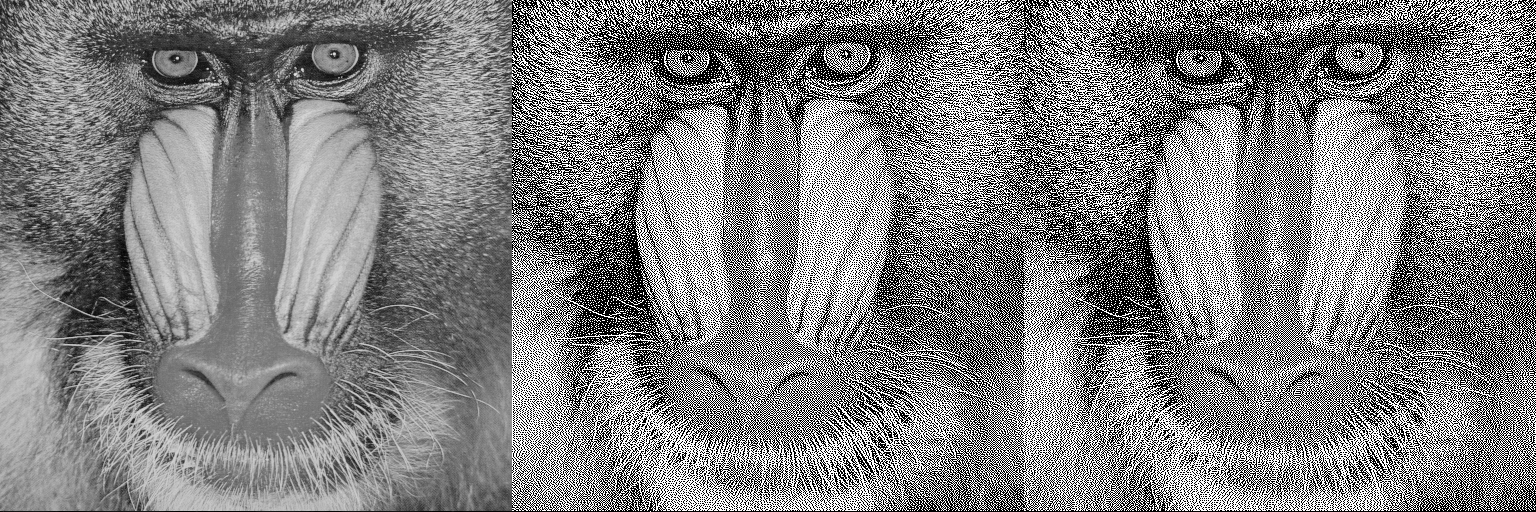
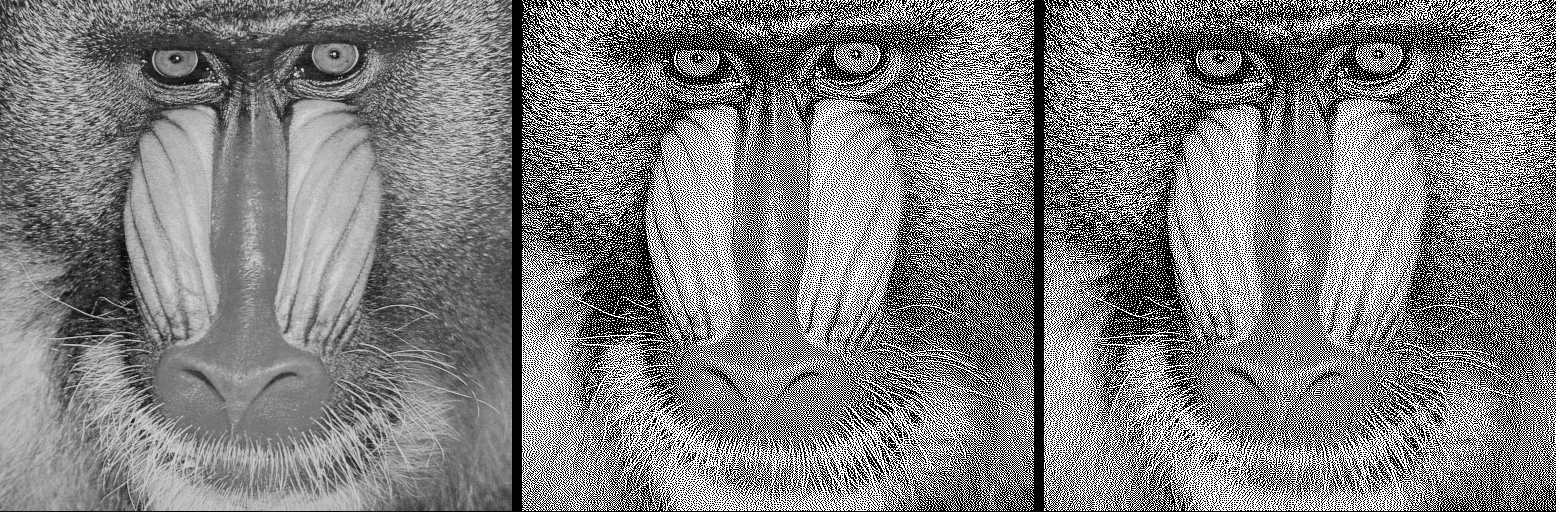
Imagens testando

diff --git a/utils.py b/utils.py
@@ -1,5 +1,7 @@
 import os
 import numpy as np
+from PIL import Image, ImageDraw, ImageFont
+import matplotlib.pyplot as plt
 from PIL import Image
 
 def create_output_folder(folder_name="output"):
@@ -32,8 +34,27 @@ def salvar_imagem_concatenada(imagens, diretorio, nome_arquivo, modo="L"):
     # Garante que o diretório exista
     os.makedirs(diretorio, exist_ok=True)
 
-    # Concatena as imagens horizontalmente
-    combinado = np.hstack(imagens)
+    # Define a distância entre as imagens (em pixels)
+    distancia = 10
+
+    # Adiciona a distância entre as imagens
+    altura_maxima = max(imagem.shape[0] for imagem in imagens)
+    largura_total = sum(imagem.shape[1] for imagem in imagens) + distancia * (len(imagens) - 1)
+
+    # Cria um array vazio com a altura máxima e largura total
+    # Cria um array vazio com a altura máxima e largura total
+    if modo == "RGB":
+        combinado = np.zeros((altura_maxima, largura_total, 3), dtype=imagens[0].dtype)
+    else:
+        combinado = np.zeros((altura_maxima, largura_total), dtype=imagens[0].dtype)
+
+
+    # Preenche o array com as imagens e a distância entre elas
+    x_offset = 0
+    for imagem in imagens:
+        altura, largura = imagem.shape[:2]
+        combinado[:altura, x_offset:x_offset + largura] = imagem
+        x_offset += largura + distancia
 
     # Converte para uint8
     combinado = combinado.astype(np.uint8)
@@ -48,3 +69,107 @@ def salvar_imagem_concatenada(imagens, diretorio, nome_arquivo, modo="L"):
     caminho_completo = os.path.join(diretorio, nome_arquivo)
     img_pil.save(caminho_completo)
     print(f"Imagem salva: {caminho_completo}")
+
+def mostrar_imagem_concatenada(imagens, modo="L"):
+    """
+    Concatena horizontalmente uma lista de imagens e exibe o resultado em uma janela.
+
+    Args:
+        imagens (list): Lista de arrays numpy representando as imagens.
+        modo (str): Modo da imagem ("L" para grayscale ou "RGB" para colorido).
+    """
+    # Define a distância entre as imagens (em pixels)
+    distancia = 10
+
+    # Adiciona a distância entre as imagens
+    altura_maxima = max(imagem.shape[0] for imagem in imagens)
+    largura_total = sum(imagem.shape[1] for imagem in imagens) + distancia * (len(imagens) - 1)
+
+    # Cria um array vazio com a altura máxima e largura total, preenchido com branco
+    if modo == "RGB":
+        combinado = np.ones((altura_maxima, largura_total, 3), dtype=np.uint8) * 255  # Branco para RGB
+    else:
+        combinado = np.ones((altura_maxima, largura_total), dtype=np.uint8) * 255  # Branco para grayscale
+
+    # Preenche o array com as imagens e a distância entre elas
+    x_offset = 0
+    for imagem in imagens:
+        altura, largura = imagem.shape[:2]
+        if modo == "RGB":
+            combinado[:altura, x_offset:x_offset + largura, :] = imagem
+        else:
+            combinado[:altura, x_offset:x_offset + largura] = imagem
+        x_offset += largura + distancia
+
+    # Converte para uint8
+    combinado = combinado.astype(np.uint8)
+
+    # Exibe a imagem concatenada
+    plt.figure(figsize=(10, 5))
+    if modo == "RGB":
+        plt.imshow(combinado)
+    else:  # Default para grayscale
+        plt.imshow(combinado, cmap="gray")
+    plt.axis("off")
+    plt.title("Imagens Concatenadas")
+    plt.show()
+
+def salvar_grid_imagens(imagens_nomes, diretorio, nome_arquivo, modo="L"):
+    """
+    Cria um grid com 3 colunas e quantas linhas forem necessárias e salva as imagens.
+
+    Args:
+        imagens_nomes (list): Lista de tuplas no formato (imagem, nome_do_metodo).
+        diretorio (str): Nome do diretório onde a imagem será salva.
+        nome_arquivo (str): Nome do arquivo de saída.
+        modo (str): Modo da imagem ("L" para grayscale ou "RGB" para colorido).
+    """
+    # Garante que o diretório exista
+    os.makedirs(diretorio, exist_ok=True)
+
+    # Configurações do grid
+    colunas = 3
+    largura_imagem = max(imagem.shape[1] for imagem, _ in imagens_nomes)
+    altura_imagem = max(imagem.shape[0] for imagem, _ in imagens_nomes)
+    linhas = (len(imagens_nomes) + colunas - 1) // colunas  # Calcula o número de linhas necessárias
+
+    # Altura extra para a legenda
+    altura_legenda = 30
+
+    # Cria o canvas para o grid
+    largura_total = colunas * largura_imagem
+    altura_total = linhas * (altura_imagem + altura_legenda)
+    if modo == "RGB":
+        grid = np.ones((altura_total, largura_total, 3), dtype=np.uint8) * 255  # Branco para RGB
+    else:
+        grid = np.ones((altura_total, largura_total), dtype=np.uint8) * 255  # Branco para grayscale
+
+    # Preenche o grid com as imagens e as legendas
+    for idx, (imagem, nome_metodo) in enumerate(imagens_nomes):
+        linha = idx // colunas
+        coluna = idx % colunas
+        x_offset = coluna * largura_imagem
+        y_offset = linha * (altura_imagem + altura_legenda)
+
+        # Adiciona a imagem ao grid
+        if modo == "RGB" and len(imagem.shape) == 2:  # Converte grayscale para RGB
+            imagem = np.stack([imagem] * 3, axis=-1)
+        elif modo == "L" and len(imagem.shape) == 3:  # Converte RGB para grayscale
+            imagem = np.mean(imagem, axis=-1).astype(np.uint8)
+
+        grid[y_offset:y_offset + altura_imagem, x_offset:x_offset + largura_imagem] = imagem
+
+        # Adiciona a legenda
+        img_pil = Image.fromarray(grid)
+        draw = ImageDraw.Draw(img_pil)
+        font = ImageFont.load_default()  # Usa a fonte padrão
+        text_x = x_offset + largura_imagem // 2 - len(nome_metodo) * 3  # Centraliza o texto
+        text_y = y_offset + altura_imagem + 5
+        draw.text((text_x, text_y), nome_metodo, fill=(0 if modo == "L" else (0, 0, 0)), font=font)
+        grid = np.array(img_pil)
+
+    # Salva o grid como imagem
+    img_pil = Image.fromarray(grid, mode="RGB" if modo == "RGB" else "L")
+    caminho_completo = os.path.join(diretorio, nome_arquivo)
+    img_pil.save(caminho_completo)
+    print(f"Grid de imagens salvo: {caminho_completo}")

diff --git a/q1.py b/q1.py
@@ -2,54 +2,74 @@ import numpy as np
 from PIL import Image
 import matplotlib.pyplot as plt
 from mascaras1 import MASCARAS
-from utils import create_output_folder, salvar_imagem_concatenada
+from utils import create_output_folder, salvar_imagem_concatenada, mostrar_imagem_concatenada, salvar_grid_imagens
 
 def dithering_difusao_erro(img, mascara, serpentina=False):
     altura, largura = img.shape
 
     if serpentina:
         sentido_normal = True
-        # precisamos de uma mascara com dy invertido, ou seja mascara(dx, dy, peso) -> mascara(dx, -dy, peso), pois estamos percorrendo no outro sentido
-        mascara_flipped = np.copy(mascara)
-        mascara_flipped[:, 1] *= -1
         for x in range(altura):
             if sentido_normal:
+                # Sentido normal (esquerda para direita)
                 for y in range(largura):
-                    apply_dithering(img, mascara, altura, largura, x, y)
+                    apply_dithering(img, mascara, altura, largura, x, y, direcao=1)
             else:
+                # Sentido inverso (direita para esquerda)
                 for y in range(largura - 1, -1, -1):
-                    apply_dithering(img, mascara_flipped, altura, largura, x, y)
+                    apply_dithering(img, mascara, altura, largura, x, y, direcao=-1)
             sentido_normal = not sentido_normal
     else:
         for x in range(altura):
             for y in range(largura):
-                apply_dithering(img, mascara, altura, largura, x, y)
+                apply_dithering(img, mascara, altura, largura, x, y, direcao=1)
 
     return img
 
-def apply_dithering(img, mascara, altura, largura, x, y):
+def apply_dithering(img, mascara, altura, largura, x, y, direcao=1):
     pixel = img[x, y]
-    if pixel < 128:
-        img[x, y] = 0
-    else:
-        img[x, y] = 255
-
-    erro = pixel - img[x, y]
+    novo_valor = 0 if pixel < 128 else 255
+    erro = pixel - novo_valor
+    img[x, y] = novo_valor
 
     for dx, dy, peso in mascara:
         x_novo = x + int(dx)
-        y_novo = y + int(dy)
+        y_novo = y + int(dy * direcao)  # Aqui multiplicamos dy pela direção
         if 0 <= x_novo < altura and 0 <= y_novo < largura:
             img[x_novo, y_novo] += erro * peso
 
+def dithering_difusao_erro_rgb(img_rgb, mascara, serpentina=False):
+    # Inicializa a imagem de saída com mesma forma
+    img_out = np.zeros_like(img_rgb)
+
+    # Aplica dithering em cada canal separadamente
+    for c in range(3):  # 0 = R, 1 = G, 2 = B
+        canal = img_rgb[:, :, c].copy()
+        canal_dither = dithering_difusao_erro(canal, mascara, serpentina)
+        img_out[:, :, c] = np.clip(canal_dither, 0, 255)
+
+    return img_out.astype(np.uint8)
+
 # --- Main ---
 imagem = np.array(Image.open("imgs/baboon_monocromatica.png").convert('L'), dtype=np.float32)
+imagem_rgb = np.array(Image.open("imgs/baboon_colorida.png").convert('RGB'), dtype=np.float32)
 create_output_folder("out1")
+
+# lista de imagens para o grid (dois grids: com e sem serpentina)
+# cada lista (list) é formada por tuplas (imagem, nome)
+imgs_serpentina = []
+imgs_sem_serpentina = []
+imgs_serpentina_rgb = []
+imgs_sem_serpentina_rgb = []
 
 # Para cada máscara, aplica e salva o resultado
 for nome, mascara in MASCARAS.items():
     serp_off = dithering_difusao_erro(imagem.copy(), mascara, serpentina=False)
     serp_on = dithering_difusao_erro(imagem.copy(), mascara, serpentina=True)
+
+    # Adiciona as imagens à lista de grid
+    imgs_sem_serpentina.append((serp_off, nome))
+    imgs_serpentina.append((serp_on, nome))
 
     # Concatena e salva usando a nova função
     salvar_imagem_concatenada(
@@ -59,3 +79,57 @@ for nome, mascara in MASCARAS.items():
         modo="L"
     )
 
+    # Exibe a imagem concatenada (basta descomentar para visualizar)
+    #mostrar_imagem_concatenada(
+    #    imagens=[imagem, serp_off, serp_on],
+    #    modo="L"
+    #)
+
+    # Para a imagem colorida
+    serp_off_rgb = dithering_difusao_erro_rgb(imagem_rgb.copy(), mascara, serpentina=False)
+    serp_on_rgb = dithering_difusao_erro_rgb(imagem_rgb.copy(), mascara, serpentina=True)
+    salvar_imagem_concatenada(
+        imagens=[imagem_rgb, serp_off_rgb, serp_on_rgb],
+        diretorio="out1",
+        nome_arquivo=f"{nome.replace(' ', '_')}_colorida.png",
+        modo="RGB"
+    )
+
+    # Adiciona as imagens coloridas à lista de grid
+    imgs_sem_serpentina_rgb.append((serp_off_rgb, nome))
+    imgs_serpentina_rgb.append((serp_on_rgb, nome))
+
+
+    # Exibe a imagem colorida concatenada (basta descomentar para visualizar)
+    #mostrar_imagem_concatenada(
+    #    imagens=[imagem_rgb, serp_off_rgb, serp_on_rgb],
+    #    modo="RGB"
+    #)
+
+salvar_grid_imagens(
+    imagens_nomes=imgs_sem_serpentina, 
+    diretorio="out1",
+    nome_arquivo="grid_sem_serpentina.png",
+    modo="L"
+)
+
+salvar_grid_imagens(
+    imagens_nomes=imgs_serpentina,
+    diretorio="out1",
+    nome_arquivo="grid_com_serpentina.png",
+    modo="L"
+)
+
+salvar_grid_imagens(
+    imagens_nomes=imgs_sem_serpentina_rgb, 
+    diretorio="out1",
+    nome_arquivo="grid_sem_serpentina_colorida.png",
+    modo="RGB"
+)
+
+salvar_grid_imagens(
+    imagens_nomes=imgs_serpentina_rgb, 
+    diretorio="out1",
+    nome_arquivo="grid_com_serpentina_colorida.png",
+    modo="RGB"
+)
